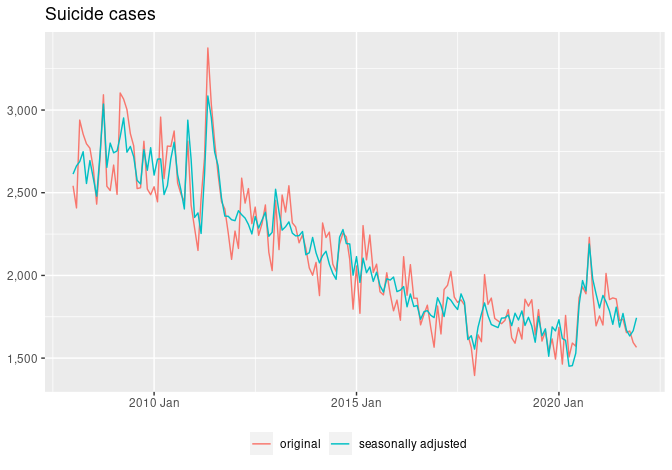
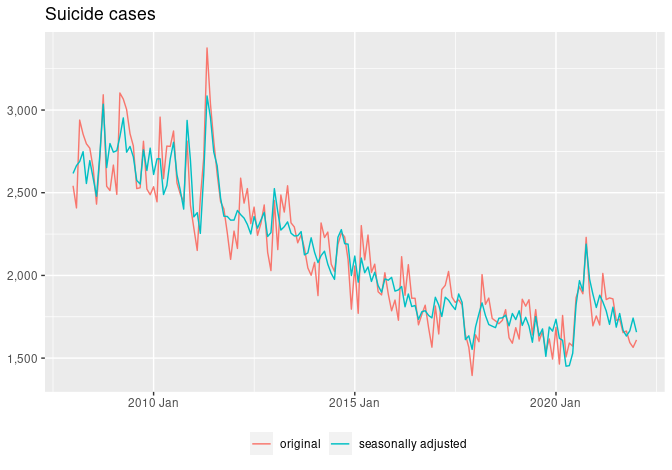
update January 2022 cases

diff --git a/README.md b/README.md
@@ -10,7 +10,7 @@ Mitsuo Shiota
 -   [Suicide cases are bouncing back, but not as fast as the program
     suggests](#suicide-cases-are-bouncing-back-but-not-as-fast-as-the-program-suggests)
 
-Updated: 2022-02-05
+Updated: 2022-03-05
 
 ## Motivation
 
